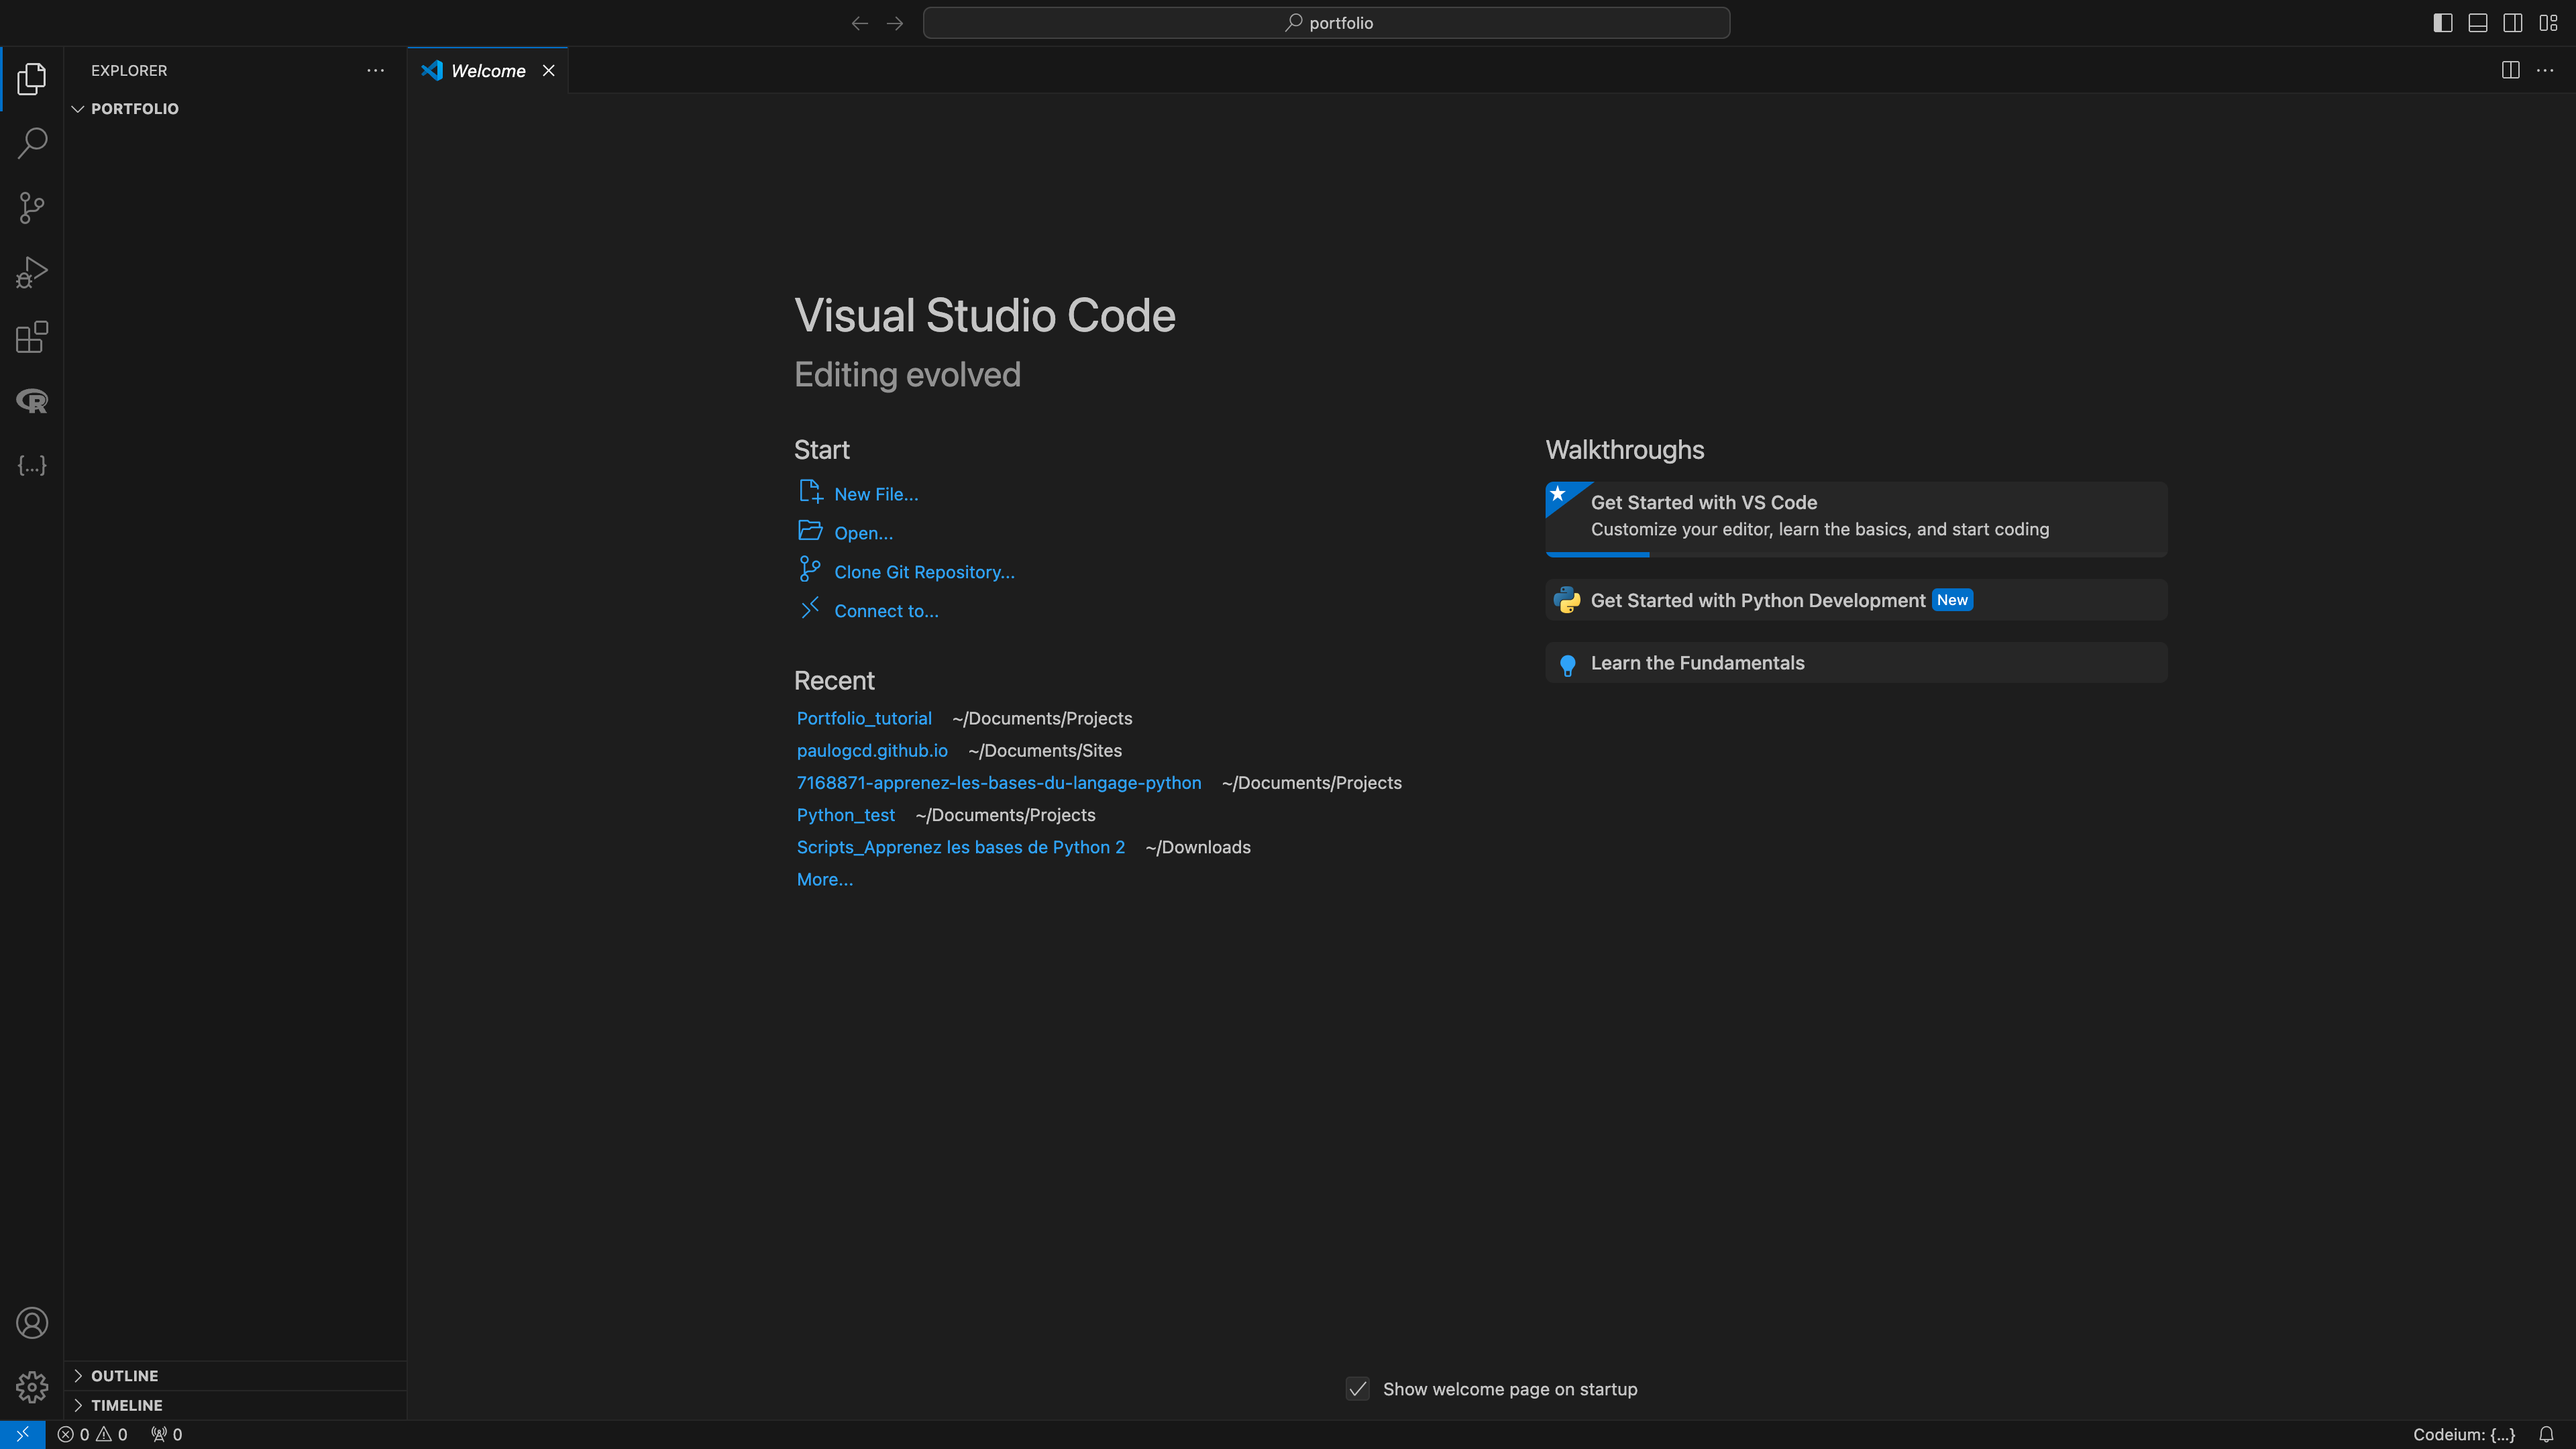
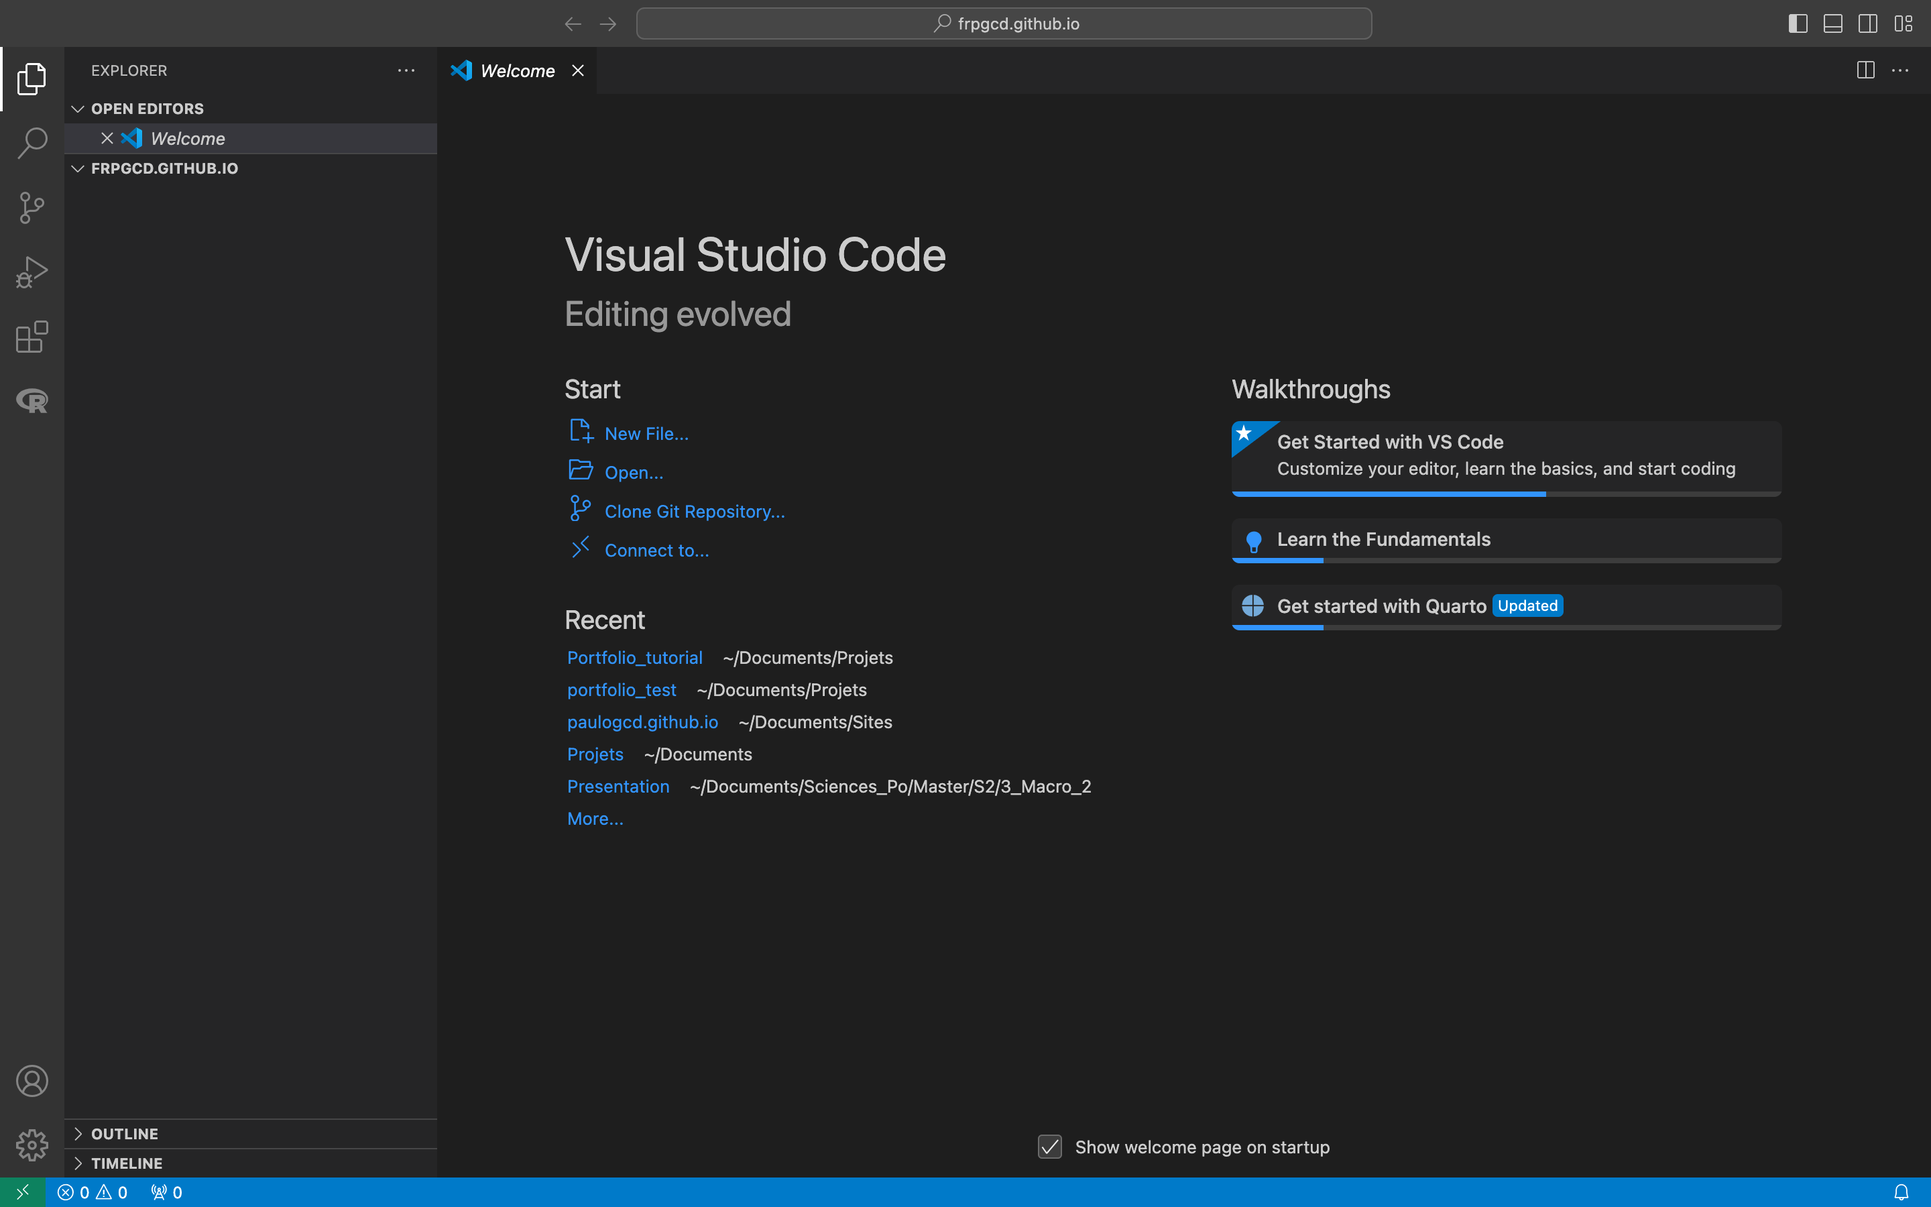
Changing pictures and name of local folder. Other general changes.

diff --git a/docs/1_git_and_github.html b/docs/1_git_and_github.html
@@ -186,8 +186,8 @@ ul.task-list li input[type="checkbox"] {
 <figcaption>Dowload page of vscode.</figcaption>
 </figure>
 </div>
-<p>The strength of vscode comes mainly from the way it manages folders, in which several files of the same project exist. Now, we are going to create a folder, named “portfolio” for example, in which we are going to develop our online portfolio.</p>
-<p>After it is done, we can use vscode to open this same folder. To do so, we open vscode, click on “open” in the starting page, and select your folder.</p>
+<p>The strength of vscode comes mainly from the way it manages folders, in which several files of the same project exist. Now, we are going to create a folder in which we are going to develop our online portfolio. It is better if you name it “username.github.io”, with instead of “username” the pseudonym you are thinking of using in GitHub. It will be useful in the future parts of the tutorial. In my case, I will chose to illustrate it with the username “frpgcd”, thus naming my folder “frpgcd.github.io”.</p>
+<p>Once it is done, we can use vscode to open this same folder. To do so, we open vscode, click on “open” in the starting page, and select your folder.</p>
 <div class="quarto-figure quarto-figure-center">
 <figure class="figure">
 <p><img src="./resources/images/1_2_starting_page_vscode.png" class="img-fluid figure-img"></p>
@@ -209,7 +209,9 @@ ul.task-list li input[type="checkbox"] {
 <section id="basics-of-git" class="level2">
 <h2 class="anchored" data-anchor-id="basics-of-git">Basics of Git</h2>
 <p>Git is a software that allows for version management, i.e.&nbsp;it is a version control system. Simply put, it is a software that allows you to make a logbook of all the changes in your files. You want to check all the steps from the very beginning of your project until the current version ? If you use git, it is possible.</p>
-<p>Note that this does not only work with code files, but also with any type of file. If you have a text file (like a Master thesis for example…) for which you want to control the different versions, you can use git for it !</p>
+<blockquote class="blockquote">
+<p>Note : Git does not only work with code files, but also with any type of file. If you have a text file (like a Master thesis for example…) for which you want to control the different versions, you can use git for it !</p>
+</blockquote>
 <p>The first step is to install Git from <a href="https://git-scm.com/">here</a>.</p>
 <div class="quarto-figure quarto-figure-center">
 <figure class="figure">
@@ -224,7 +226,7 @@ ul.task-list li input[type="checkbox"] {
 <figcaption>How to create a new terminal on vscode.</figcaption>
 </figure>
 </div>
-<p>This should normally generate a console at the bottom of vscode, where your username and/or the name of your computer appear :</p>
+<p>This should normally generate a console at the bottom of vscode, where your username, the name of your computer, adn/or the name of our current folder could appear :</p>
 <div class="quarto-figure quarto-figure-center">
 <figure class="figure">
 <p><img src="./resources/images/1_6_terminal_vscode.png" class="img-fluid figure-img"></p>
@@ -235,11 +237,16 @@ ul.task-list li input[type="checkbox"] {
 <blockquote class="blockquote">
 <p>Note : This tutorial does not focus on what a terminal is, what shell, bash or any kind of line command are and do. However, it would be very useful for you to know how to use the basics of it. I strongly encourage you to check some material on it, such as the first four chapters of <a href="https://floswald.github.io/ScPoProgramming/">Florian Oswald lecture</a> on the shell.</p>
 </blockquote>
-<p>Now, to use Git, we need to take a step back.</p>
-<p>First, we have to initialise git in a folder. This will create a .git folder in our current folder, that will be the logbook. Second, we have to choose which files we track with git. The changes of the tracked files will be registered in the .git folder. We can now work on our files. Once we want to save the changes of the files, we ‘add’ the modified files to the logbook. Third, we have to describe the changes. Without descriptions, the changes won’t be saved in the logbook. To describe the changes, we write a ‘commit’ in the logbook.</p>
+<p>Now, to understand how to use Git, we need to take a step back, and have in mind the four main steps of our workflow :</p>
+<ol type="1">
+<li>First, we have to initialise git in a folder. This will create a folder with a <code>.git</code> extension in our current folder, that will be the logbook.</li>
+<li>Second, we have to choose which files we track with git. The changes of the tracked files will be registered in the <code>.git</code> folder.</li>
+<li>We can now work on our files. Once we want to save the changes of the files, we ‘add’ the modified files to the logbook.</li>
+<li>Finally, we have to describe the changes. Without descriptions, the changes won’t be saved in the logbook. To describe the changes, we write a ‘commit’ in the logbook.</li>
+</ol>
 <p>Concretely, if we come back to vscode :</p>
 <ol type="1">
-<li>We write <code>git init</code> in the terminal console to initialise a git folder.</li>
+<li>We write <code>git init</code> in the terminal console to initialise a git folder. This create a hidden folder inside of our folder, named <code>.git</code>. You must not necessarily see it to use git.</li>
 <li>We then click on “new file” on vscode, for example a text-file. We write something in it, and save it as <code>text.txt</code>.</li>
 <li>We begin tracking this file with git, using <code>git add text.txt</code>.</li>
 <li>We describe our action using <code>git commit -m "Adding a text file."</code>.</li>
@@ -262,26 +269,67 @@ ul.task-list li input[type="checkbox"] {
 <section id="basics-of-github" class="level2">
 <h2 class="anchored" data-anchor-id="basics-of-github">Basics of GitHub</h2>
 <p>GitHub is a firm (currently owned by Microsoft) that puts at disposition servers which you can use to store your data. It has a lot of different uses, including collaborative coding, but this tutorial only focuses on how to use it to manage your project with Git and Quarto. It is widely used in the programming community and is also sometimes referred as the social network of developers.</p>
-<p>To use GitHub, the first step is to go to <a href="https://github.com">GitHub</a> and <a href="https://github.com/signup?ref_cta=Sign+up&amp;ref_loc=header+logged+out&amp;ref_page=%2F&amp;source=header-home">create an account</a>.</p>
+<p>To use GitHub, the first step is to go to <a href="https://github.com">GitHub</a> and create an account. Once your account is created, you can create a repository, named “username.github.io”, replacing “username” with your actual user name. Since I choose the username <code>frpgcd</code>, I will create in the example a repository name “frpgcd.github.io”.</p>
 <div class="quarto-figure quarto-figure-center">
 <figure class="figure">
-<p><img src="./resources/images/1_8_account_creation_page_github.png" class="img-fluid figure-img"></p>
-<figcaption>The account creation page of GitHub</figcaption>
+<p><img src="./resources/images/1_9_starting_page_github.png" class="img-fluid figure-img"></p>
+<figcaption>Click on the green button “Create a repository”.</figcaption>
 </figure>
 </div>
-<p>Once your account is created, you can create a repository, named “username.github.io”, replacing “username” with your actual user name. For example, if your username is “janesmith”, then you should create a repository named “janesmith.github.io”.</p>
-<p>Once it is done, we can go back to vscode, to add a connection between our local folder and the remote repository we just created.</p>
-<p>In order to do that, we first have to configurate git.</p>
+<div class="quarto-figure quarto-figure-center">
+<figure class="figure">
+<p><img src="./resources/images/1_10_create_repo.png" class="img-fluid figure-img"></p>
+<figcaption>Starting page of the repository creation process.</figcaption>
+</figure>
+</div>
+<div class="quarto-figure quarto-figure-center">
+<figure class="figure">
+<p><img src="./resources/images/1_11_create_repo_filled.png" class="img-fluid figure-img"></p>
+<figcaption>Page of the repository creation process filled with information.</figcaption>
+</figure>
+</div>
+<blockquote class="blockquote">
+<p>Note : During the creation process of a repository, you are asked for a license. It is important to chose one, because without it, the most restrictive policy applies. After a quick research, it seems that the <a href="https://creativecommons.org/licenses/by-nc-nd/4.0/">Creative Commons BY-NC-ND 4.0 Deed license</a> should cover all the cases we need for an online academic portfolio. It is very permissive, but requires citation (“appropriate credit”), does not allows for commercial uses and derivatives. If your needs are different, it is worth looking into different kinds of license to see which one is better for your own usage.</p>
+</blockquote>
+<p>Once it is done, we can go back to vscode, to add a connection between our local folder and the remote repository we just created. In order to do that, we first have to configurate git.</p>
 <ol type="1">
 <li><p>Enter <code>git config --global user.name "Your Name"</code>, replacing “Your Name” with the name of your choice. It doesn’t have to be the same as your GitHub user name.</p></li>
 <li><p>Enter <code>git config --global user.email "your@mail.com"</code>, replacing “your@mail.com” with the email of your choice. Note that it does not require you to actually own this email adress.</p></li>
 <li><p>Then, we have to add a ssh key to our GitHub account. An ssh key allows you to communicate to GitHub from your computer. Enter <code>ssh-keygen -t ed25519 -C "your@email.com"</code>, replacing “your@email” with your actual email. Your terminal will ask for a passphrase, you can not enter anything, to choose to not have any passphrase.</p></li>
-<li><p>Now, we are going to use this key to establish a connection with GitHub. On your terminal, you can enter <code>cat ~/.ssh/id_ed25519.pub</code> or <code>open ~/.ssh/id_ed25519.pub</code>, and it will give you back a character string beginning with “ssh-ed22519”. Go to your GitHub account, Click on your profile picture at the top right of the website, choose “settings”, then click on “ssh and gpg keys”, then on “add new ssh key”, choose the title you want (for example the name of your current computer), and in “key”, add the value your terminal gave back to you. You should be connected !</p></li>
+</ol>
+<p>In my case, my first name is Paulo and my last is Gugelmo Cavalheiro Dias, and I choose the username “frpgcd” for demonstration purposes, I would then enter in my Terminal console :</p>
+<pre class="{zsh}"><code>
+git config --global user.name "frpgcd"
+git config --global user.email "frpgcd@mail.com"
+ssh-keygen -t ed25519 -C "frpgcd@email.com"
+</code></pre>
+<ol start="4" type="1">
+<li>Now, we are going to use this key to establish a connection with GitHub. On your terminal, you can enter <code>cat ~/.ssh/id_ed25519.pub</code> or <code>open ~/.ssh/id_ed25519.pub</code>, and it will give you back a character string beginning with “ssh-ed22519”. Go to your GitHub account, click on your profile picture at the top right of the website, choose “settings”, then click on “ssh and gpg keys”, then on “add new ssh key”, choose the title you want (for example the name of your current computer), and in “key”, add the value your terminal gave back to you. You should be connected !</li>
+</ol>
+<div class="quarto-figure quarto-figure-center">
+<figure class="figure">
+<p><img src="./resources/images/1_12_ssh_keys.png" class="img-fluid figure-img"></p>
+<figcaption>In your settings, find the ssh and gpg keys section.</figcaption>
+</figure>
+</div>
+<div class="quarto-figure quarto-figure-center">
+<figure class="figure">
+<p><img src="./resources/images/1_13_ssh_keys_info.png" class="img-fluid figure-img"></p>
+<figcaption>After having clicked on “New SSH Key”, you can add what you get from your terminal after entering “cat ~/.ssh/id_ed25519.pub” in the “Key” section.</figcaption>
+</figure>
+</div>
+<blockquote class="blockquote">
+<p>Note : You should not share your ssh keys to the public. It could jeopardize the safety of your data and access to the distant repository.</p>
+</blockquote>
+<ol start="5" type="1">
 <li><p>Now that your GitHub account is connected to your computer, we have to connect your local folder to a repository. Go on your repository, click on the green menu button “code”, and copy the text it gives you in the SSH section (it should be something like “git@github.com:username/name_of_the_repository.git”). In your vscode terminal, with your folder open, you can then enter : <code>git remote add origin git@github.com:username/name_of_the_repository.git</code>. The connection between your local folder and the distant repository should be established.</p></li>
 <li><p>We can “push” the content of our local folder to our remote folder. This is a command that we use once all the changes are commited in our logbook to send all the information in the remote server. To be able to push correctly, you first enter <code>git push -u origin main</code>, and then you can just enter <code>git push</code> for the next times, when your changes are added and commited.</p></li>
 </ol>
+<p>In my case, I have, with the username “frpgcd” and the repository “frpgcd.github.io” :</p>
+<pre class="{zsh}"><code>git remote add origin git@github.com:frpgcd/frpgcd.github.io.git
+git push -u origin main</code></pre>
 <blockquote class="blockquote">
-<p>Note : You can also initialise a git folder in another directory, and “clone” an existing GitHub repository. This will create a duplicate of this repository in your file and on your GitHub account, or just load the data locally if it is one of your repositories.</p>
+<p>Note : You can also initialise a git folder in another directory, and “clone” an existing GitHub repository. This will create a duplicate of this repository in your file and on your GitHub account, or just load the data locally if it is one of your repositories. Although this is not covered in the current tutorial, you can check the Github and Git documentations if needed.</p>
 </blockquote>
 </section>
 <section id="use-git-and-github-together" class="level2">
